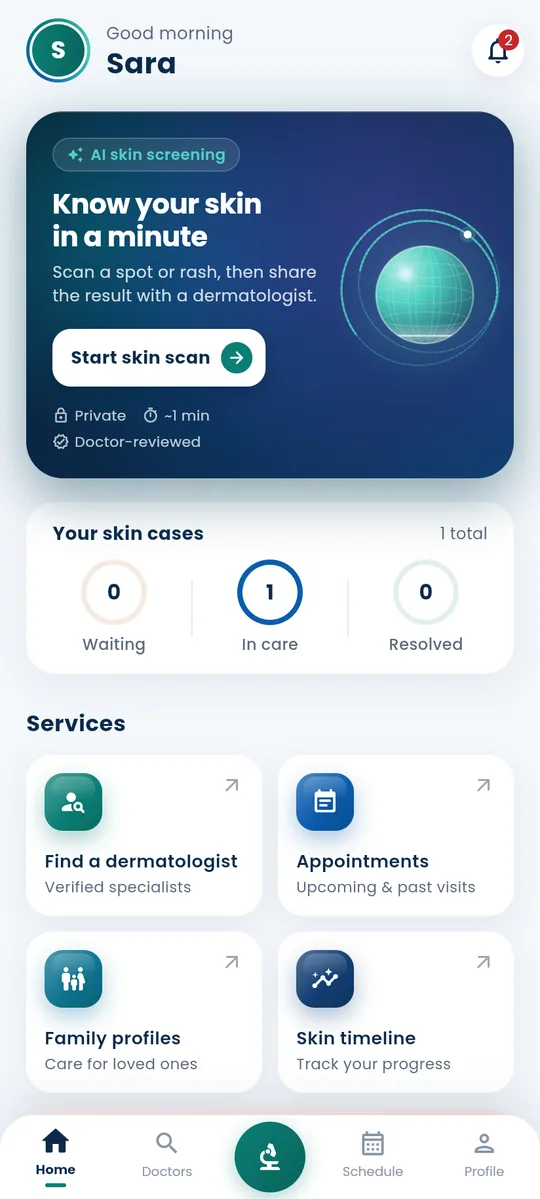
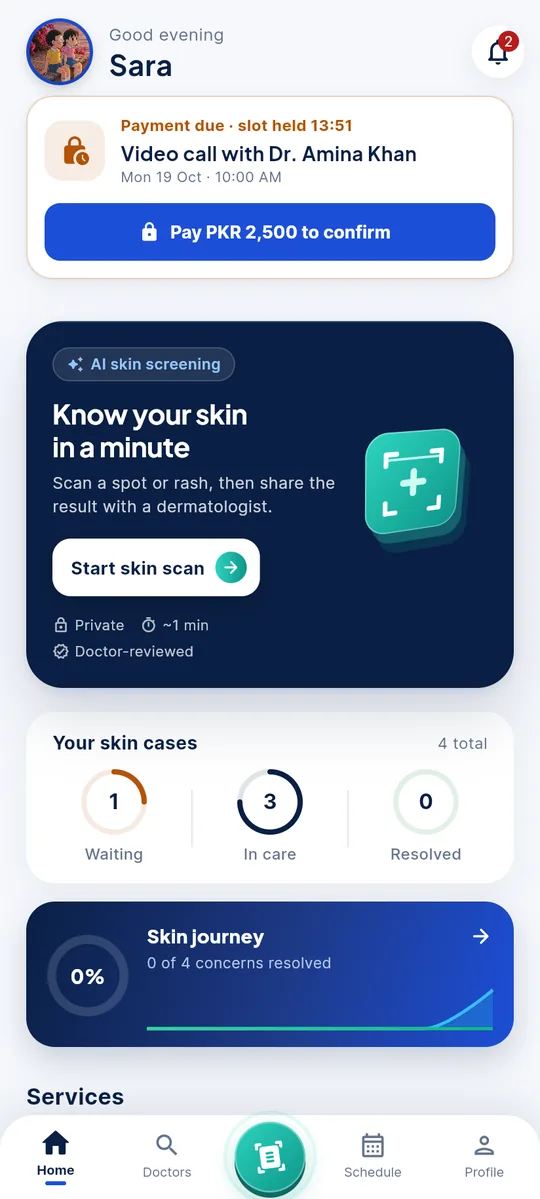
DermaCare case study: payments, family profiles, photo crop, fees screens

diff --git a/index.html b/index.html
@@ -144,10 +144,10 @@
           <p class="case-lead">
             A telemedicine app where patients scan a skin concern with AI, then get a
             <strong>licence-verified dermatologist</strong> on it by chat, video or an in-person visit.
-            Patient, doctor and admin apps from one Flutter codebase.
+            Patients pay securely by JazzCash, Easypaisa or card when they book. Patient, doctor and admin apps from one Flutter codebase.
           </p>
           <ul class="tags" aria-label="Technologies">
-            <li>Flutter</li><li>Bloc</li><li>Supabase</li><li>PostgreSQL RLS</li><li>Gemini</li><li>TensorFlow</li><li>Deno</li><li>Stream Video</li>
+            <li>Flutter</li><li>Bloc</li><li>Supabase</li><li>PostgreSQL RLS</li><li>Gemini</li><li>TensorFlow</li><li>Deno</li><li>Stream Video</li><li>JazzCash</li><li>Easypaisa</li>
           </ul>
         </div>
 
@@ -165,25 +165,28 @@
           <div class="case-card reveal spotlight">
             <span class="case-num">03</span>
             <h3>Security by design</h3>
-            <p>Row-level security on every table, admin-verified doctors, private photo storage, and API keys kept server-side in edge functions, never inside the app.</p>
+            <p>Row-level security on every table, admin-verified doctors and private photo storage. Payments are priced by the server and each gateway response is verified twice (signature, then status inquiry) before a 20/80 split is booked. No secrets inside the app.</p>
           </div>
           <div class="case-card reveal spotlight">
             <span class="case-num">04</span>
             <h3>Crafted, tested, shipped</h3>
-            <p>A motion system, painted 3D visuals and accessible UI. 79 automated checks, including a 33-step live end-to-end suite, plus CI builds for Android and iOS.</p>
+            <p>A motion system, painted 3D visuals, accessible UI in English and Urdu. Over 130 automated checks, including a 41-step live end-to-end suite, plus CI builds for Android and iOS.</p>
           </div>
         </div>
 
         <div class="gallery-pin">
         <div class="gallery reveal" role="region" aria-label="DermaCare screens, scroll sideways" tabindex="0">
           <figure><img src="assets/work/01_welcome.webp" alt="DermaCare welcome screen" loading="lazy" width="270" height="600"><figcaption>Onboarding</figcaption></figure>
-          <figure><img src="assets/work/10_patient_home.webp" alt="Patient home with AI scan hero" loading="lazy" width="270" height="600"><figcaption>Patient home</figcaption></figure>
+          <figure><img src="assets/work/10_patient_home.webp" alt="Patient home with payment due card and AI scan hero" loading="lazy" width="270" height="600"><figcaption>Patient home</figcaption></figure>
           <figure><img src="assets/work/12_ai_scan.webp" alt="AI skin scanner" loading="lazy" width="270" height="600"><figcaption>AI skin scan</figcaption></figure>
           <figure><img src="assets/work/13_case_detail.webp" alt="Case detail with care plan" loading="lazy" width="270" height="600"><figcaption>Case &amp; care plan</figcaption></figure>
           <figure><img src="assets/work/14_find_doctors.webp" alt="Find a verified dermatologist" loading="lazy" width="270" height="600"><figcaption>Verified doctors</figcaption></figure>
           <figure><img src="assets/work/17_skin_timeline.webp" alt="Skin timeline" loading="lazy" width="270" height="600"><figcaption>Skin timeline</figcaption></figure>
+          <figure><img src="assets/work/16_family_member.webp" alt="Family member profile with their own scans" loading="lazy" width="270" height="600"><figcaption>Family profiles</figcaption></figure>
+          <figure><img src="assets/work/18_photo_crop.webp" alt="Profile photo crop" loading="lazy" width="270" height="600"><figcaption>Photo crop</figcaption></figure>
           <figure><img src="assets/work/30_doctor_cases.webp" alt="Doctor case queue" loading="lazy" width="270" height="600"><figcaption>Doctor app</figcaption></figure>
           <figure><img src="assets/work/32_doctor_profile.webp" alt="Doctor profile and activity" loading="lazy" width="270" height="600"><figcaption>Doctor insights</figcaption></figure>
+          <figure><img src="assets/work/33_doctor_fees.webp" alt="Doctor fees with the 80/20 split and payout account" loading="lazy" width="270" height="600"><figcaption>Fees &amp; payouts</figcaption></figure>
           <figure><img src="assets/work/42_admin_platform.webp" alt="Admin analytics" loading="lazy" width="270" height="600"><figcaption>Admin console</figcaption></figure>
         </div>
         </div>
